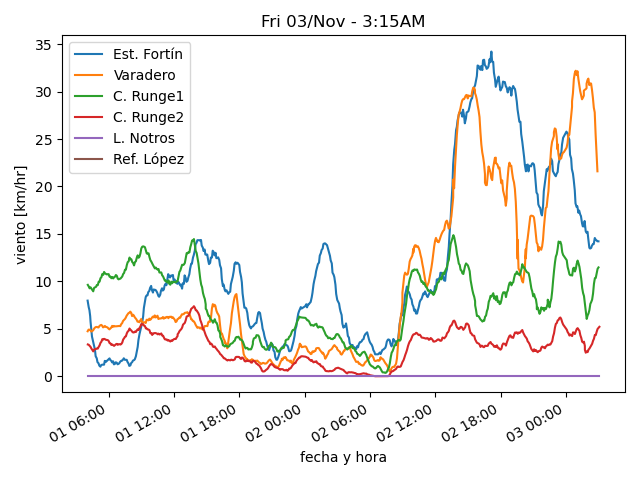
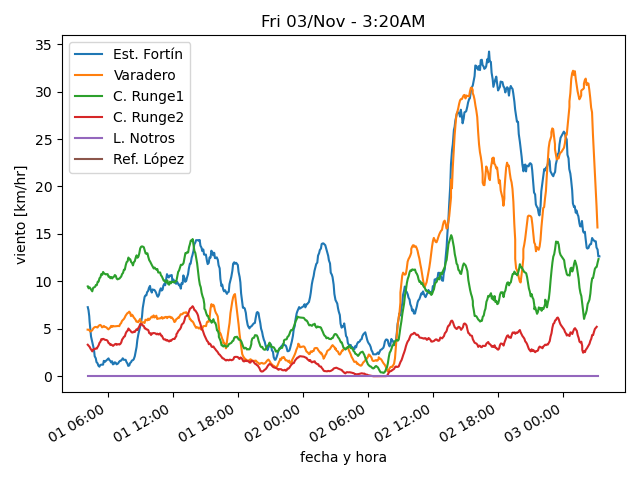
actualiza datos

diff --git a/estaciones/estacion3.html b/estaciones/estacion3.html
@@ -18,32 +18,32 @@
     </tr>
     <tr>
      <td class="stats_data">
-      2:59AM
+      3:14AM
      </td>
     </tr>
     <tr>
      <td class="stats_data">
-      6.3⁰C
+      6.2⁰C
      </td>
     </tr>
     <tr>
      <td class="stats_data">
-      1.2⁰C
+      1.5⁰C
      </td>
     </tr>
     <tr>
      <td class="stats_data">
-      70.3%
+      71.9%
      </td>
     </tr>
     <tr>
      <td class="stats_data">
-      1011.14hPa
+      1011.04hPa
      </td>
     </tr>
     <tr>
      <td class="stats_data">
-      8.2/11.5 km/hr W
+      8.2/12.6 km/hr W
      </td>
     </tr>
     <tr>

diff --git a/estaciones/estacion1.html b/estaciones/estacion1.html
@@ -18,12 +18,12 @@
     </tr>
     <tr>
      <td class="stats_data">
-      2:59AM
+      3:19AM
      </td>
     </tr>
     <tr>
      <td class="stats_data">
-      6.6⁰C
+      6.7⁰C
      </td>
     </tr>
     <tr>
@@ -33,7 +33,7 @@
     </tr>
     <tr>
      <td class="stats_data">
-      64.0%
+      63.7%
      </td>
     </tr>
     <tr>
@@ -43,7 +43,7 @@
     </tr>
     <tr>
      <td class="stats_data">
-      3.7/7.5 km/hr SSW
+      11.7/15.6 km/hr SSW
      </td>
     </tr>
     <tr>

diff --git a/estaciones/estacion2.html b/estaciones/estacion2.html
@@ -18,7 +18,7 @@
     </tr>
     <tr>
      <td class="stats_data">
-      2:54AM
+      3:09AM
      </td>
     </tr>
     <tr>
@@ -28,12 +28,12 @@
     </tr>
     <tr>
      <td class="stats_data">
-      2.7⁰C
+      2.8⁰C
      </td>
     </tr>
     <tr>
      <td class="stats_data">
-      71.7%
+      72.5%
      </td>
     </tr>
     <tr>
@@ -43,7 +43,7 @@
     </tr>
     <tr>
      <td class="stats_data">
-      7.3/9.9 km/hr W
+      7.8/10.7 km/hr WNW
      </td>
     </tr>
     <tr>

diff --git a/estaciones/estacion5.html b/estaciones/estacion5.html
@@ -18,22 +18,22 @@
     </tr>
     <tr>
      <td class="stats_data">
-      3:00AM
+      3:10AM
      </td>
     </tr>
     <tr>
      <td class="stats_data">
-      2.8⁰C
+      2.7⁰C
      </td>
     </tr>
     <tr>
      <td class="stats_data">
-      0.3⁰C
+      0.4⁰C
      </td>
     </tr>
     <tr>
      <td class="stats_data">
-      83.0%
+      85.0%
      </td>
     </tr>
     <tr>
